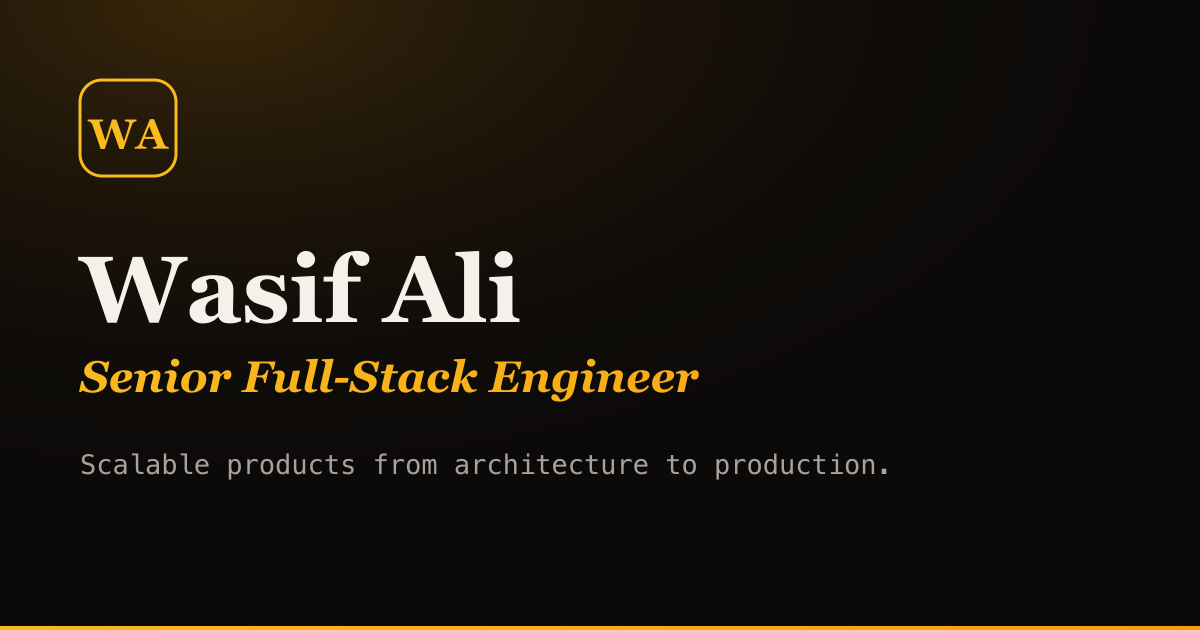
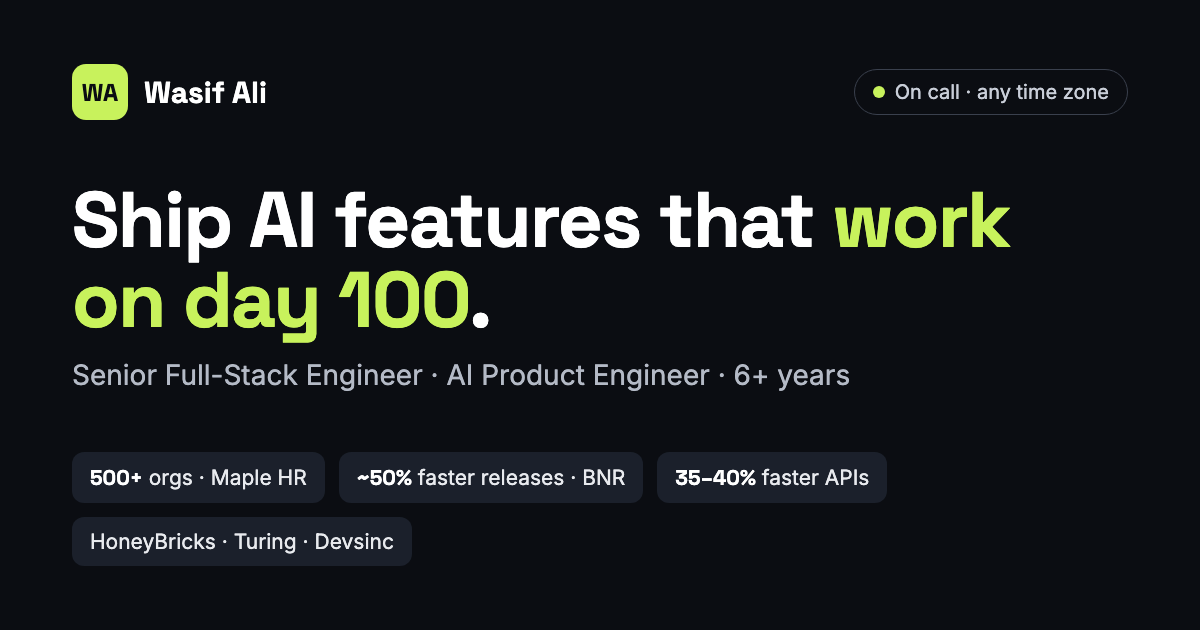
Iteration 4: search and social previews
New 1200x630 preview image matching the redesign (the old one showed the
previous title), a hiring-focused meta description and keywords, and a
JSON-LD graph: Person, ProfessionalService with the services as offers,
WebSite and FAQPage built from the FAQ section.

diff --git a/src/app/layout.tsx b/src/app/layout.tsx
@@ -1,7 +1,7 @@
 import type { Metadata } from "next";
 import { Inter, Space_Grotesk, JetBrains_Mono } from "next/font/google";
 import "./globals.css";
-import { profile, social } from "@/data/portfolio";
+import { about, achievements, education, faqs, profile, services, skillGroups, social } from "@/data/portfolio";
 import { siteUrl } from "@/config/site";
 
 const inter = Inter({ subsets: ["latin"], display: "swap", variable: "--font-inter" });
@@ -10,7 +10,7 @@ const mono = JetBrains_Mono({ subsets: ["latin"], display: "swap", variable: "--
 
 const title = "Wasif Ali | AI Product Engineer";
 const description =
-  "Wasif Ali builds AI features that work in production: React UI, APIs, LLM calls, evals, fallbacks and cost limits. Senior full-stack engineer, 6+ years. On call in US, EU and Asia hours.";
+  "Hire Wasif Ali, a remote senior full-stack and AI product engineer (6+ years). React, Node.js, Rails and LLM features that work in production, for startups and SaaS teams. Case studies: Maple HR, HoneyBricks, BNR. On call in UK/EU and US hours.";
 
 export const metadata: Metadata = {
   metadataBase: new URL(siteUrl),
@@ -31,6 +31,12 @@ export const metadata: Metadata = {
     "Ruby on Rails",
     "PostgreSQL",
     "Remote",
+    "Hire remote full-stack developer",
+    "Hire AI engineer",
+    "Freelance AI developer",
+    "LLM integration",
+    "SaaS developer",
+    "Remote developer Pakistan",
   ],
   alternates: { canonical: "/" },
   openGraph: {
@@ -49,15 +55,66 @@ export const metadata: Metadata = {
 /** Marks that JS is available so scroll-reveal styles apply (see globals.css). */
 const jsFlag = `document.documentElement.classList.add('js');`;
 
-const personJsonLd = {
+/**
+ * Structured data for search engines and AI answer engines: who (Person),
+ * what is offered (ProfessionalService), the site, and the FAQ answers.
+ */
+const personId = `${siteUrl}/#person`;
+const structuredData = {
   "@context": "https://schema.org",
-  "@type": "Person",
-  name: profile.name,
-  jobTitle: profile.title,
-  url: siteUrl,
-  email: `mailto:${social.email}`,
-  sameAs: [social.github, social.linkedin],
-  knowsAbout: ["AI product engineering", "LLM integration", "Full-stack development", "React", "Node.js", "Ruby on Rails", "PostgreSQL"],
+  "@graph": [
+    {
+      "@type": "Person",
+      "@id": personId,
+      name: profile.name,
+      jobTitle: ["Senior Full-Stack Engineer", "AI Product Engineer"],
+      description: about.paragraphs[0],
+      url: `${siteUrl}/`,
+      image: `${siteUrl}/og.png`,
+      email: `mailto:${social.email}`,
+      sameAs: [social.github, social.linkedin],
+      address: { "@type": "PostalAddress", addressCountry: "PK" },
+      alumniOf: education.map((e) => ({ "@type": "CollegeOrUniversity", name: e.school })),
+      award: achievements,
+      knowsAbout: skillGroups.flatMap((g) => g.skills).slice(0, 40),
+    },
+    {
+      "@type": "ProfessionalService",
+      "@id": `${siteUrl}/#service`,
+      name: "Wasif Ali — AI product and full-stack engineering",
+      url: `${siteUrl}/`,
+      image: `${siteUrl}/og.png`,
+      email: social.email,
+      telephone: social.phone,
+      founder: { "@id": personId },
+      areaServed: "Worldwide",
+      address: { "@type": "PostalAddress", addressCountry: "PK" },
+      hasOfferCatalog: {
+        "@type": "OfferCatalog",
+        name: "Services",
+        itemListElement: services.map((s) => ({
+          "@type": "Offer",
+          itemOffered: { "@type": "Service", name: s.title, description: s.text },
+        })),
+      },
+    },
+    {
+      "@type": "WebSite",
+      "@id": `${siteUrl}/#website`,
+      url: `${siteUrl}/`,
+      name: "Wasif Ali — Portfolio",
+      publisher: { "@id": personId },
+    },
+    {
+      "@type": "FAQPage",
+      "@id": `${siteUrl}/#faq`,
+      mainEntity: faqs.map((f) => ({
+        "@type": "Question",
+        name: f.q,
+        acceptedAnswer: { "@type": "Answer", text: f.a },
+      })),
+    },
+  ],
 };
 
 export default function RootLayout({ children }: { children: React.ReactNode }) {
@@ -65,7 +122,7 @@ export default function RootLayout({ children }: { children: React.ReactNode }) 
     <html lang="en" className={`${inter.variable} ${grotesk.variable} ${mono.variable}`} suppressHydrationWarning>
       <body className="min-h-screen bg-ink text-text antialiased">
         <script dangerouslySetInnerHTML={{ __html: jsFlag }} />
-        <script type="application/ld+json" dangerouslySetInnerHTML={{ __html: JSON.stringify(personJsonLd) }} />
+        <script type="application/ld+json" dangerouslySetInnerHTML={{ __html: JSON.stringify(structuredData) }} />
         <a
           href="#main"
           className="sr-only focus:not-sr-only focus:fixed focus:left-4 focus:top-4 focus:z-[100] focus:rounded-lg focus:bg-white focus:px-4 focus:py-2 focus:text-sm focus:font-semibold focus:text-ink"
